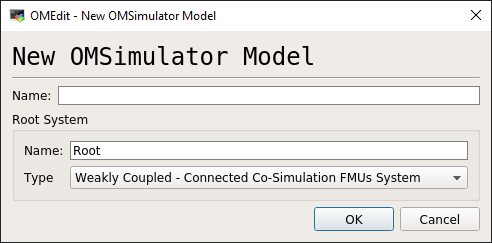
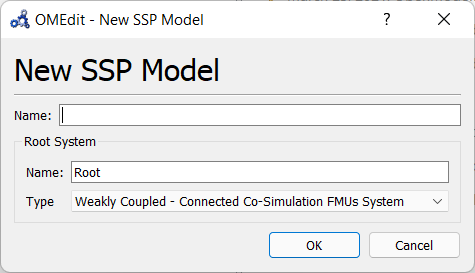
Updating UsersGuide on graphical modeling with SSP

diff --git a/doc/UsersGuide/source/OMEdit.rst b/doc/UsersGuide/source/OMEdit.rst
@@ -9,45 +9,61 @@ to install the full OpenModelica tool suite, which includes
 OMSimulator. The independent stand-alone version doesn't provide any
 graphical modelling editor.
 
-See also `FMI documentation <https://openmodelica.org/doc/OpenModelicaUsersGuide/latest/fmitlm.html>`_.
+Composite models are imported and exported in the System Structure Description (SSD) format,
+which is part of the System Structure and Parameterization (SSP) standard.
+
+See also `FMI documentation <https://openmodelica.org/doc/OpenModelicaUsersGuide/latest/fmitlm.html>`_
+and `SSP documentation <https://ssp-standard.org/>`_.
 
 .. figure :: images/omedit_01.png
   :name: omedit-mainwindow-browsers
 
   OMEdit MainWindow and Browsers.
 
-New OMSimulator Model
+New SSP Model
 ---------------------
 
-A new and empty OMSimulator model can be created from the OMSimulator
-menu item.
+A new and empty SSP model can be created from `File->New->SSP` menu item.
 
 .. figure :: images/omedit_02.png
 
-  OMEdit: New OMSimulator Model
+  OMEdit: New SSP Model
 
-That will pop-up a dialog to enter the names of the model and the root
-system.
+That will open a dialog to enter the names of the model and the root
+system and to choose the root systems type.
+
+There are three types available:
+  - TLM - Transmission Line Modeling System
+  - Weakly Coupled - Connected Co-Simulation FMUs System
+  - Strongly Coupled - Connected Model-Exchange FMUs System
 
 .. figure :: images/omedit_03.png
 
-  OMEdit: New OMSimulator Model Dialog
+  OMEdit: New SSP Model Dialog
+
+.. figure :: images/omedit_04.png
+
+  OMEdit: Newly created empty root system of SSP model
 
 Add System
 ----------
 
-A weakly coupled system (co-simulation) can integrate strongly coupled
-system (model exchange). Therefore, the weakly coupled system must to
+When a new model is created a root system is always generated.
+If you need to have another system in your root system you can
+add it with `SSP->Add System`.
+
+For example only a weakly coupled system (Co-Simulation) can integrate strongly coupled
+system (Model Exchange). Therefore, the weakly coupled system must
 be selected from the Libraries Browser and the respective menu item
 can be selected:
 
-.. figure :: images/omedit_04.png
+.. figure :: images/omedit_05.png
 
   OMEdit: Add System
 
 That will pop-up a dialog to enter the names of the new system.
 
-.. figure :: images/omedit_05.png
+.. figure :: images/omedit_06.png
 
   OMEdit: Add System Dialog
 
@@ -58,17 +74,43 @@ A sub-model is typically an FMU, but it also can be result file. In
 order to import a sub-model, the respective system must be selected
 and the action can be selected from the menu bar:
 
-.. figure :: images/omedit_06.png
+.. figure :: images/omedit_07.png
 
   OMEdit: Add SubModel
 
-That will pop-up a dialog to enter the names of the new sub-model.
+The file browser will open to select an FMU (.fmu) or result file
+(.csv) as a subsmodel.
+Then a dialog opens to choose the name of the new sub-model.
 
-.. figure :: images/omedit_07.png
+.. figure :: images/omedit_08.png
 
   OMEdit: Add SubModel Dialog
+
+.. figure :: images/omedit_09.png
+
+  OMEdit: Root system with added FMU.
 
 Simulate
 --------
 
-Select the simulate item from the OMSimulator menu.
+Select the simulate button (symbol with green arrow) or select
+`Simulation->Simulate` from the menu in OMEdit to simulate the
+SSP model.
+
+Dual Mass Oscillator Example
+----------------------------
+
+The dual mass oscillator example from our testsuite is
+a simple example one can recreate using components from the
+Modelica Standard Library.
+After splitting the model into two models and exporting each
+as an Model-Exchange and Co-Simulation FMU.
+
+.. figure :: images/DualMassOscillator.png
+
+  Dual mass oscillator Modelica model (diagramm view) and FMUs
+
+
+.. figure :: images/omedit_10.png
+
+  OMEdit: Simulate Dual Mass Oscillator SSP model
